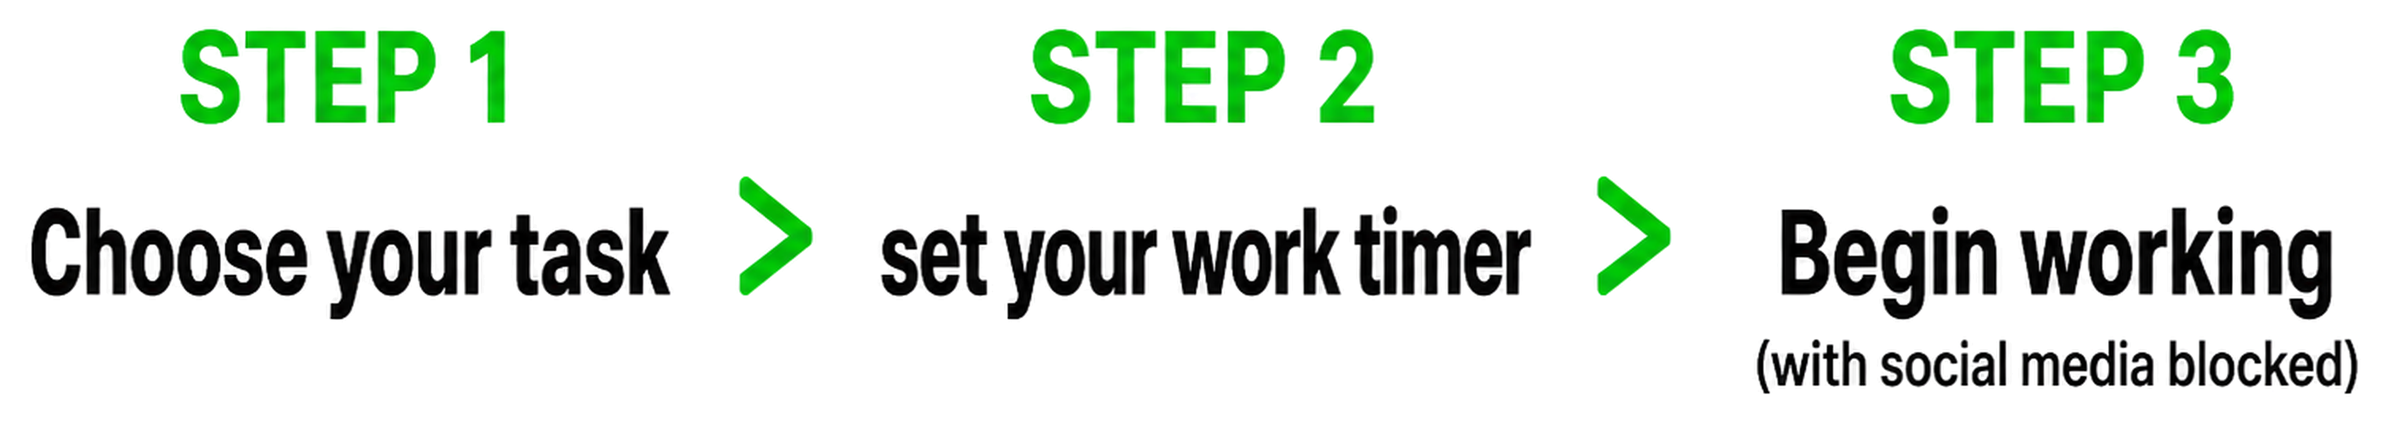
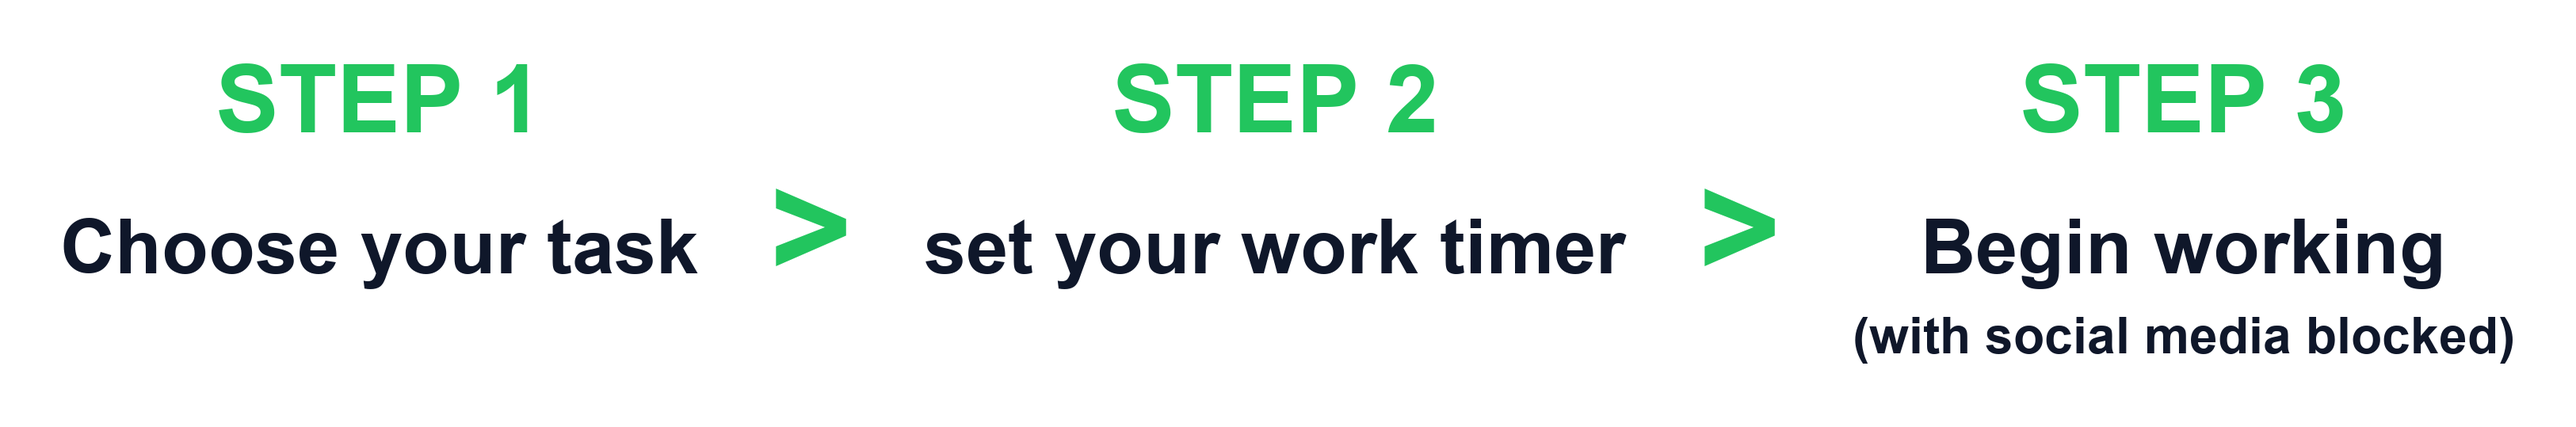
Use font-rendered sharp PNG for sessions flow steps.

diff --git a/components/marketing/LandingPage.tsx b/components/marketing/LandingPage.tsx
@@ -119,47 +119,15 @@ export default function LandingPage() {
       <section className="border-t border-slate-200 pb-14 pt-5 sm:pb-20 sm:pt-6">
         <div className="mx-auto w-full max-w-3xl">
           <div className="mb-14 text-center">
-            <h2 className="mb-6 flex w-full items-start justify-center gap-3 sm:gap-5">
-              <span className="flex min-w-0 flex-1 flex-col items-center gap-2 sm:gap-2.5">
-                <span className="text-sm font-extrabold uppercase tracking-[0.08em] text-green-500 sm:text-base">
-                  Step 1
-                </span>
-                <span className="text-center text-base font-bold leading-snug tracking-tight text-slate-900 sm:text-xl">
-                  Choose your task
-                </span>
-              </span>
-              <span
-                aria-hidden
-                className="mt-5 shrink-0 text-2xl font-bold leading-none text-green-500 sm:mt-6 sm:text-3xl"
-              >
-                &gt;
-              </span>
-              <span className="flex min-w-0 flex-1 flex-col items-center gap-2 sm:gap-2.5">
-                <span className="text-sm font-extrabold uppercase tracking-[0.08em] text-green-500 sm:text-base">
-                  Step 2
-                </span>
-                <span className="text-center text-base font-bold leading-snug tracking-tight text-slate-900 sm:text-xl">
-                  set your work timer
-                </span>
-              </span>
-              <span
-                aria-hidden
-                className="mt-5 shrink-0 text-2xl font-bold leading-none text-green-500 sm:mt-6 sm:text-3xl"
-              >
-                &gt;
-              </span>
-              <span className="flex min-w-0 flex-1 flex-col items-center gap-2 sm:gap-2.5">
-                <span className="text-sm font-extrabold uppercase tracking-[0.08em] text-green-500 sm:text-base">
-                  Step 3
-                </span>
-                <span className="text-center text-base font-bold leading-snug tracking-tight text-slate-900 sm:text-xl">
-                  Begin working
-                </span>
-                <span className="text-center text-sm font-semibold leading-snug text-slate-900 sm:text-base">
-                  (with social media blocked)
-                </span>
-              </span>
-            </h2>
+            <Image
+              src="/marketing/sessions-flow-steps.png"
+              alt="Step 1 Choose your task > Step 2 set your work timer > Step 3 Begin working (with social media blocked)"
+              width={3251}
+              height={539}
+              className="mx-auto mb-6 h-auto w-full"
+              unoptimized
+              priority
+            />
             <p className="mx-auto mb-5 max-w-2xl text-base leading-relaxed text-slate-600">
               Every session is tracked by task, which not only shows you exactly what you worked on &amp; for how long —
               but also forces you to stay organized. Because if you don&apos;t organize, you can&apos;t start the
